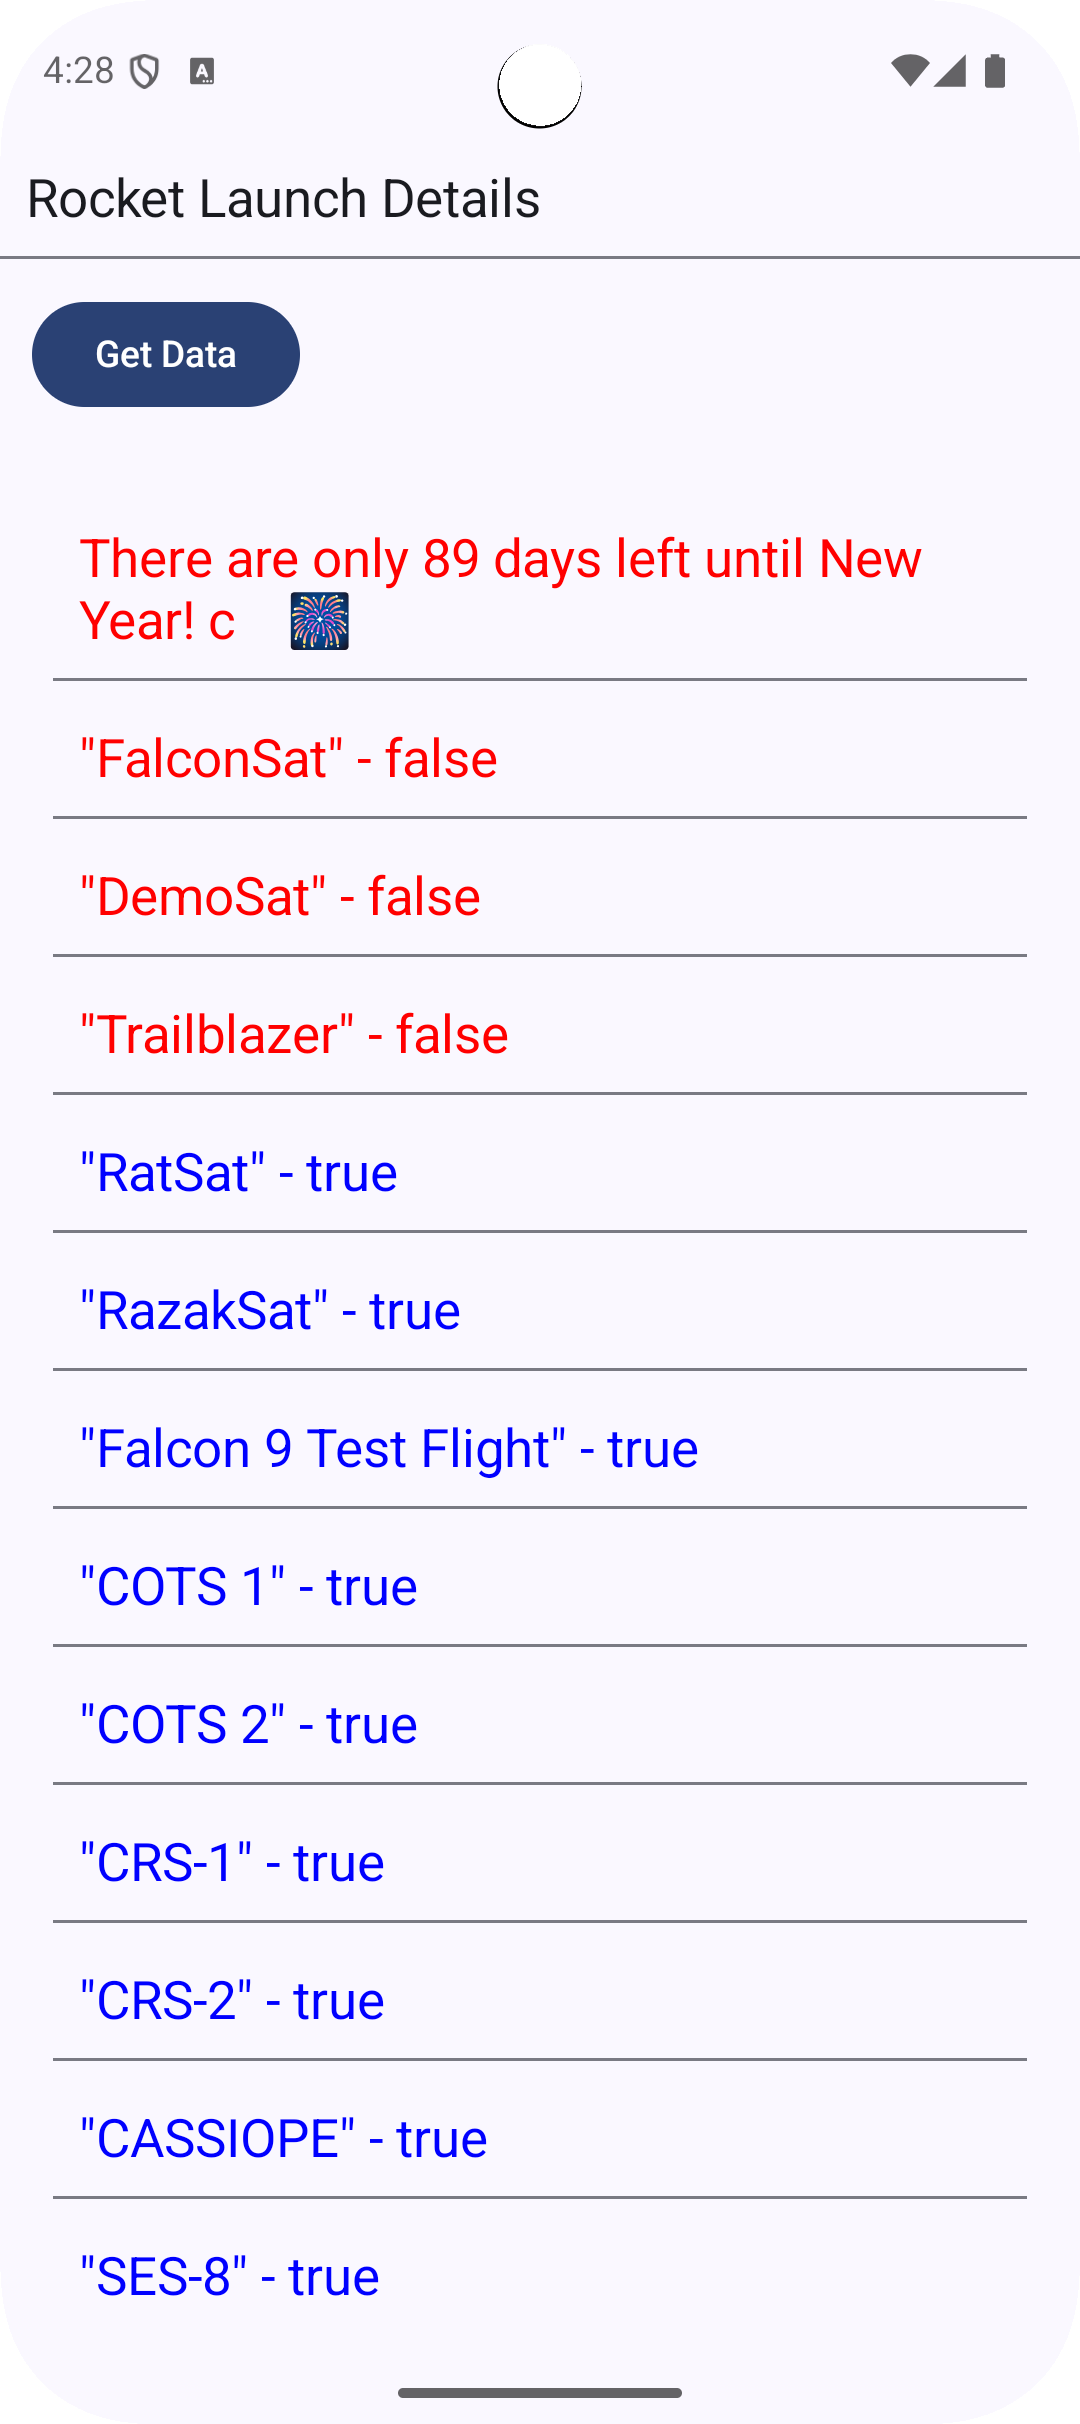
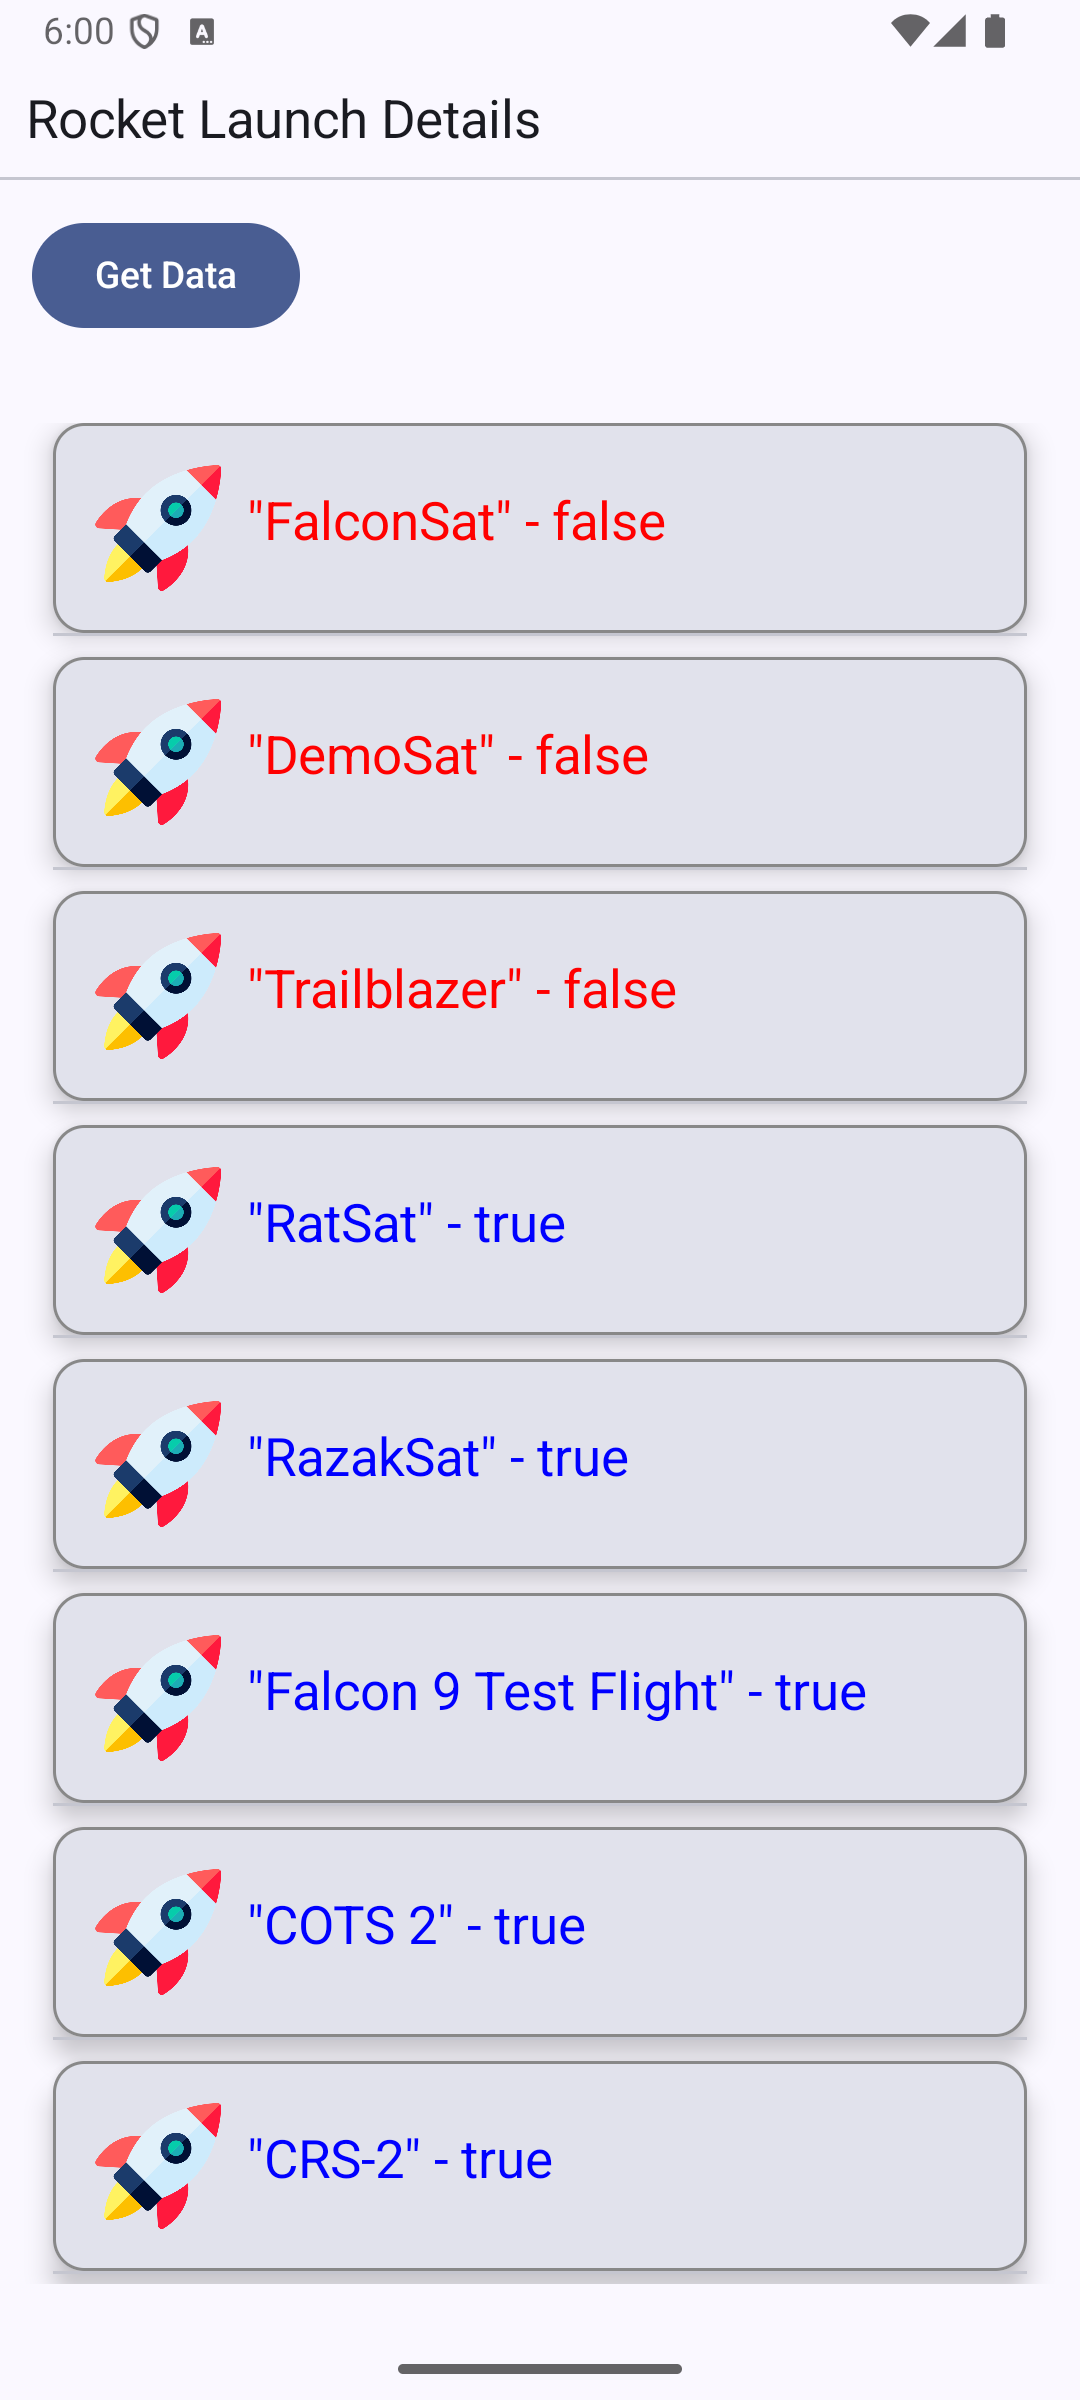
feat: Display items in cards with rounded corners and elevation
Wrapped each item in a Card composable with rounded corners, a gray border, and elevation.

Added an image to the card.

diff --git a/app/src/main/java/com/example/myapplication/MainActivity.kt b/app/src/main/java/com/example/myapplication/MainActivity.kt
@@ -1,10 +1,13 @@
 package com.example.myapplication
 
+import android.graphics.drawable.shapes.RoundRectShape
 import android.os.Bundle
 import android.widget.ProgressBar
 import androidx.activity.ComponentActivity
 import androidx.activity.compose.setContent
 import androidx.activity.enableEdgeToEdge
+import androidx.compose.foundation.BorderStroke
+import androidx.compose.foundation.Image
 import androidx.compose.foundation.layout.Arrangement
 import androidx.compose.foundation.layout.Box
 import androidx.compose.foundation.layout.Column
@@ -12,9 +15,13 @@ import androidx.compose.foundation.layout.Row
 import androidx.compose.foundation.layout.fillMaxSize
 import androidx.compose.foundation.layout.fillMaxWidth
 import androidx.compose.foundation.layout.padding
+import androidx.compose.foundation.layout.size
 import androidx.compose.foundation.lazy.LazyColumn
 import androidx.compose.foundation.lazy.items
+import androidx.compose.foundation.shape.RoundedCornerShape
 import androidx.compose.material3.Button
+import androidx.compose.material3.Card
+import androidx.compose.material3.CardDefaults
 import androidx.compose.material3.CircularProgressIndicator
 import androidx.compose.material3.Divider
 import androidx.compose.material3.MaterialTheme
@@ -29,6 +36,7 @@ import androidx.compose.ui.Alignment
 
 import androidx.compose.ui.Modifier
 import androidx.compose.ui.graphics.Color
+import androidx.compose.ui.res.painterResource
 import androidx.compose.ui.text.TextStyle
 import androidx.compose.ui.tooling.preview.Preview
 import androidx.compose.ui.unit.dp
@@ -55,6 +63,30 @@ class MainActivity : ComponentActivity() {
             }
         }
     }
+}
+
+@Preview
+@Composable
+private fun Test() {
+    Column {
+        Card(modifier = Modifier.fillMaxWidth(),
+            elevation = CardDefaults.cardElevation(
+            defaultElevation = 6.dp
+        ),        border = BorderStroke(1.dp, Color.Gray),
+            shape = RoundedCornerShape(12.dp)
+        ) {
+            Row(modifier = Modifier.padding(16.dp)) {
+                Image(painter = painterResource(R.drawable.rocket), contentDescription = "Rocket", modifier = Modifier.size(48.dp))
+                Text(
+                    "it",
+                    style = TextStyle(fontSize = 20.sp, color = Color.Red),
+                    modifier = Modifier.padding(10.dp)
+                )
+            }
+        }
+        Divider()
+    }
+
 }
 @Composable
 fun App(mainViewModel: MainViewModel = viewModel()) {
@@ -96,11 +128,21 @@ fun App(mainViewModel: MainViewModel = viewModel()) {
                         else
                             color = Color.Red
 
-                        Text(
-                            it,
-                            style = TextStyle(fontSize = 20.sp, color = color),
-                            modifier = Modifier.padding(10.dp)
-                        )
+                        Card(modifier = Modifier.fillMaxWidth(),
+                            elevation = CardDefaults.cardElevation(
+                                defaultElevation = 6.dp
+                            ),        border = BorderStroke(1.dp, Color.Gray),
+                            shape = RoundedCornerShape(12.dp)
+                        ) {
+                            Row(modifier = Modifier.padding(16.dp)) {
+                                Image(painter = painterResource(R.drawable.rocket), contentDescription = "Rocket", modifier = Modifier.size(48.dp))
+                                Text(
+                                    it,
+                                    style = TextStyle(fontSize = 20.sp, color = color),
+                                    modifier = Modifier.padding(10.dp)
+                                )
+                            }
+                        }
                         Divider()
                     }
 
